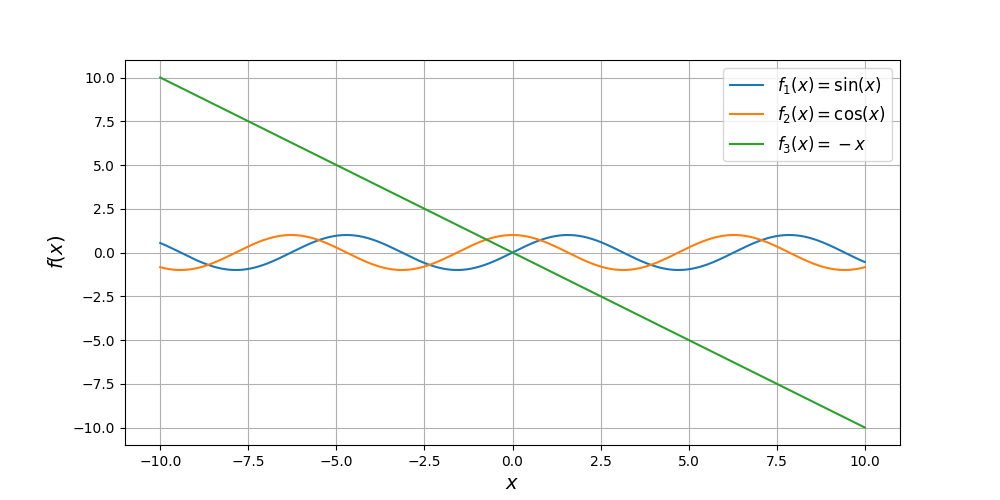
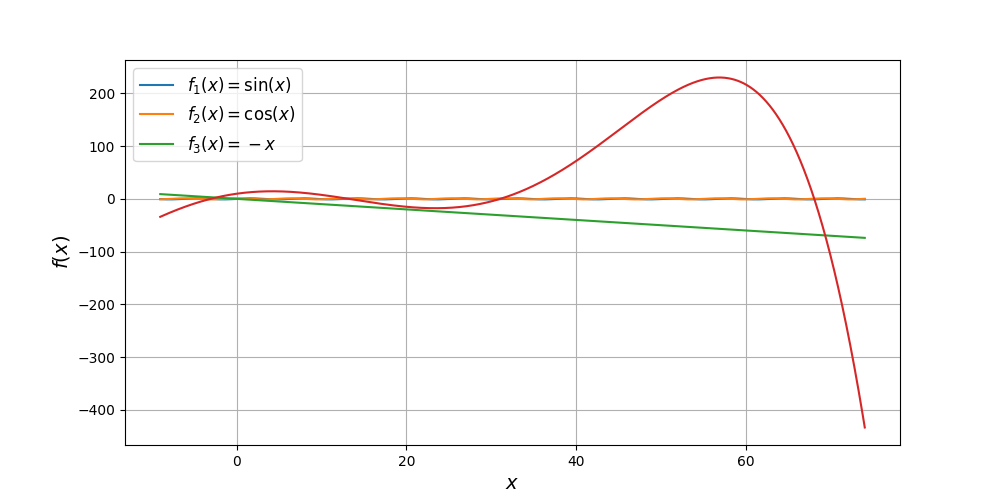
Построение полинома Лагранжа

diff --git a/VA_lab3.py b/VA_lab3.py
@@ -31,36 +31,11 @@ def read_table():
 
     return table
 
-def variant1():
-    table = read_table()
+def Lagrange(table):
 
     n = len(table)
-    a = table[0][0]
-    b = table[n - 1][0]
-
-    while(True):
-        print('Введите значение x для точки: ', end='')
-        xzn = float(input())
-
-        if xzn >= a and xzn <= b:
-            break
-
-    result = 0
-
-    count = 0
-    for i in range(n):
-        chisl = table[i][1]
-        znam = 1
-        for j in range(n):
-            count += 1
-            if (i != j):
-                chisl *= xzn - table[j][0]
-                znam *= table[i][0] - table[j][0]
-        result += chisl / znam
-
-    print('\nРезультат: ', result, ' Количество итераций: ', count)
-
     coef_Lagrange = []
+
 
     for i in range(n):
         coef1 = []
@@ -99,6 +74,68 @@ def variant1():
             for j in range(len(coef)):
                 coef_Lagrange[j] += coef[j]
 
+    print('\nПолином Лагранжа: ', end='')
+
+    for i in range(n - 1):
+        print(coef_Lagrange[len(coef_Lagrange) - 1 - i], ' * (x^', n - i - 1, ') + ', end='', sep='')
+
+    print(coef_Lagrange[0])
+
+    return coef_Lagrange
+
+def Newton():
+    return
+
+def count_Lagrange(xs, coefs):
+
+    order = len(coefs)
+
+    ys = np.zeros(len(xs))
+
+    ys += coefs[order - 1]
+
+    for i in range(order - 1):
+        ys *= xs
+        ys += coefs[order - 2 - i]
+
+   # ys = np.zeros(len(xs))  # Initialise an array of zeros of the required length.
+   # for i in range(order):
+    #    ys += coefs[i] * xs ** i
+
+    return ys
+
+def variant1():
+    table = read_table()
+
+    n = len(table)
+    a = table[0][0]
+    b = table[n - 1][0]
+
+    while(True):
+        print('Введите значение x для точки: ', end='')
+        xzn = float(input())
+
+        if xzn >= a and xzn <= b:
+            break
+
+    result = 0
+
+
+    count = 0
+    for i in range(n):
+        chisl = table[i][1]
+        znam = 1
+        for j in range(n):
+            count += 1
+            if (i != j):
+                chisl *= xzn - table[j][0]
+                znam *= table[i][0] - table[j][0]
+        result += chisl / znam
+
+    print('\nРезультат: ', result, ' Количество итераций: ', count)
+
+    coef_Lagrange = Lagrange(table)
+
     result1 = coef_Lagrange[len(coef_Lagrange) - 1]
     count = 0
 
@@ -107,16 +144,9 @@ def variant1():
         result1 += coef_Lagrange[len(coef_Lagrange) - 2 - i]
         count += 1
 
-    print('Результат: ', result1, ' Количество итераций: ', count)
+    print('\nРезультат: ', result1, ' Количество итераций: ', count)
 
-    print('\nПолином Лагранжа: ', end='')
-
-    for i in range(n - 1):
-        print(coef_Lagrange[len(coef_Lagrange) - 1 - i], ' * (x^', n - i - 1, ') + ', end='', sep='')
-
-    print(coef_Lagrange[0])
-
-    return
+    return coef_Lagrange
 
 def variant2():
     print(2)
@@ -125,20 +155,26 @@ while True:
     print('Режимы работы:\n1 - по заданной таблице значений определить \n    приближённое значение функции в точке\n2 - по заданной аналитически функции y = f(x) и массиву значений аргумента \n    вычислить таблицу значений функции\n\nВыберите режим работы программы: ', end='')
     variant = input()
 
+    coefs = []
+
     print('\n')
     if len(variant) == 1 and (variant[0] == '1' or variant[0] == '2'):
         if variant == '1':
-            variant1()
+            coefs = variant1()
         else:
             variant2()
         break
 
+    
 
-x = np.arange(-10, 10.01, 0.01)
+x = np.arange(-9, 74, 0.01)
 plt.figure(figsize=(10, 5))
 plt.plot(x, np.sin(x), label=r'$f_1(x)=\sin(x)$')
 plt.plot(x, np.cos(x), label=r'$f_2(x)=\cos(x)$')
 plt.plot(x, -x, label=r'$f_3(x)=-x$')
+c = np.poly1d([-10, 10, 15])
+plt.plot(x, count_Lagrange(x, coefs))
+
 plt.xlabel(r'$x$', fontsize=14)
 plt.ylabel(r'$f(x)$', fontsize=14)
 plt.grid(True)
